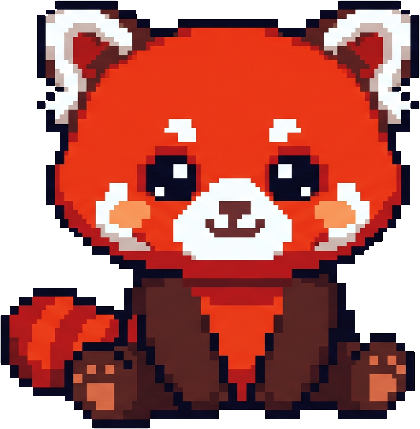
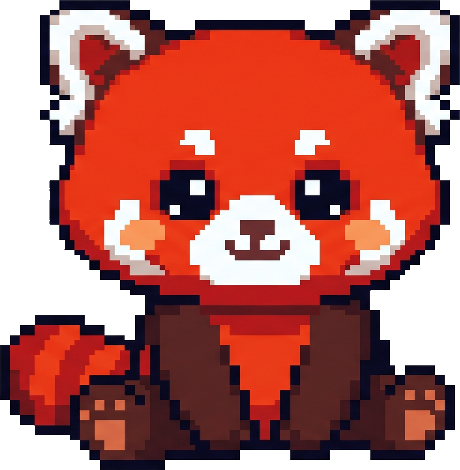
Tidy stack section spacing and panda edges

diff --git a/README.md b/README.md
@@ -25,16 +25,16 @@ I build web applications, mostly on the frontend and with exposure to backend in
 
 ## Stack
 
-<img align="right" src="assets/panda-sit.png" alt="Pixel art red panda sitting" width="230">
+<img align="right" src="assets/panda-sit.png" alt="Pixel art red panda sitting" width="250" hspace="30">
 
 **Frontend**<br>
-<img src="https://skillicons.dev/icons?i=react&theme=light" alt="React" title="React" width="48" hspace="3"> <img src="https://skillicons.dev/icons?i=js&theme=light" alt="JavaScript" title="JavaScript" width="48" hspace="3"> <img src="https://skillicons.dev/icons?i=ts&theme=light" alt="TypeScript" title="TypeScript" width="48" hspace="3"> <img src="https://skillicons.dev/icons?i=html&theme=light" alt="HTML" title="HTML" width="48" hspace="3"> <img src="https://skillicons.dev/icons?i=css&theme=light" alt="CSS" title="CSS" width="48" hspace="3"> <img src="https://skillicons.dev/icons?i=tailwind&theme=light" alt="Tailwind CSS" title="Tailwind CSS" width="48" hspace="3"> <img src="https://skillicons.dev/icons?i=bootstrap&theme=light" alt="Bootstrap" title="Bootstrap" width="48" hspace="3">
+<img src="https://skillicons.dev/icons?i=react&theme=light" alt="React" title="React" width="54" hspace="4"> <img src="https://skillicons.dev/icons?i=js&theme=light" alt="JavaScript" title="JavaScript" width="54" hspace="4"> <img src="https://skillicons.dev/icons?i=ts&theme=light" alt="TypeScript" title="TypeScript" width="54" hspace="4"> <img src="https://skillicons.dev/icons?i=html&theme=light" alt="HTML" title="HTML" width="54" hspace="4"> <img src="https://skillicons.dev/icons?i=css&theme=light" alt="CSS" title="CSS" width="54" hspace="4"> <img src="https://skillicons.dev/icons?i=tailwind&theme=light" alt="Tailwind CSS" title="Tailwind CSS" width="54" hspace="4"> <img src="https://skillicons.dev/icons?i=bootstrap&theme=light" alt="Bootstrap" title="Bootstrap" width="54" hspace="4">
 
 **Backend**<br>
-<img src="https://skillicons.dev/icons?i=java&theme=light" alt="Java" title="Java" width="48" hspace="3"> <img src="https://skillicons.dev/icons?i=spring&theme=light" alt="Spring Boot" title="Spring Boot" width="48" hspace="3"> <img src="https://skillicons.dev/icons?i=nodejs&theme=light" alt="Node.js" title="Node.js" width="48" hspace="3"> <img src="https://skillicons.dev/icons?i=express&theme=light" alt="Express" title="Express" width="48" hspace="3"> <img src="https://skillicons.dev/icons?i=php&theme=light" alt="PHP" title="PHP" width="48" hspace="3"> <img src="https://skillicons.dev/icons?i=python&theme=light" alt="Python" title="Python" width="48" hspace="3">
+<img src="https://skillicons.dev/icons?i=java&theme=light" alt="Java" title="Java" width="54" hspace="4"> <img src="https://skillicons.dev/icons?i=spring&theme=light" alt="Spring Boot" title="Spring Boot" width="54" hspace="4"> <img src="https://skillicons.dev/icons?i=nodejs&theme=light" alt="Node.js" title="Node.js" width="54" hspace="4"> <img src="https://skillicons.dev/icons?i=express&theme=light" alt="Express" title="Express" width="54" hspace="4"> <img src="https://skillicons.dev/icons?i=php&theme=light" alt="PHP" title="PHP" width="54" hspace="4"> <img src="https://skillicons.dev/icons?i=python&theme=light" alt="Python" title="Python" width="54" hspace="4">
 
 **Data and tools**<br>
-<img src="https://skillicons.dev/icons?i=postgres&theme=light" alt="PostgreSQL" title="PostgreSQL" width="48" hspace="3"> <img src="https://skillicons.dev/icons?i=supabase&theme=light" alt="Supabase" title="Supabase" width="48" hspace="3"> <img src="https://skillicons.dev/icons?i=git&theme=light" alt="Git" title="Git" width="48" hspace="3"> <img src="https://skillicons.dev/icons?i=docker&theme=light" alt="Docker" title="Docker" width="48" hspace="3">
+<img src="https://skillicons.dev/icons?i=postgres&theme=light" alt="PostgreSQL" title="PostgreSQL" width="54" hspace="4"> <img src="https://skillicons.dev/icons?i=supabase&theme=light" alt="Supabase" title="Supabase" width="54" hspace="4"> <img src="https://skillicons.dev/icons?i=git&theme=light" alt="Git" title="Git" width="54" hspace="4"> <img src="https://skillicons.dev/icons?i=docker&theme=light" alt="Docker" title="Docker" width="54" hspace="4">
 
 <br clear="right">
 
